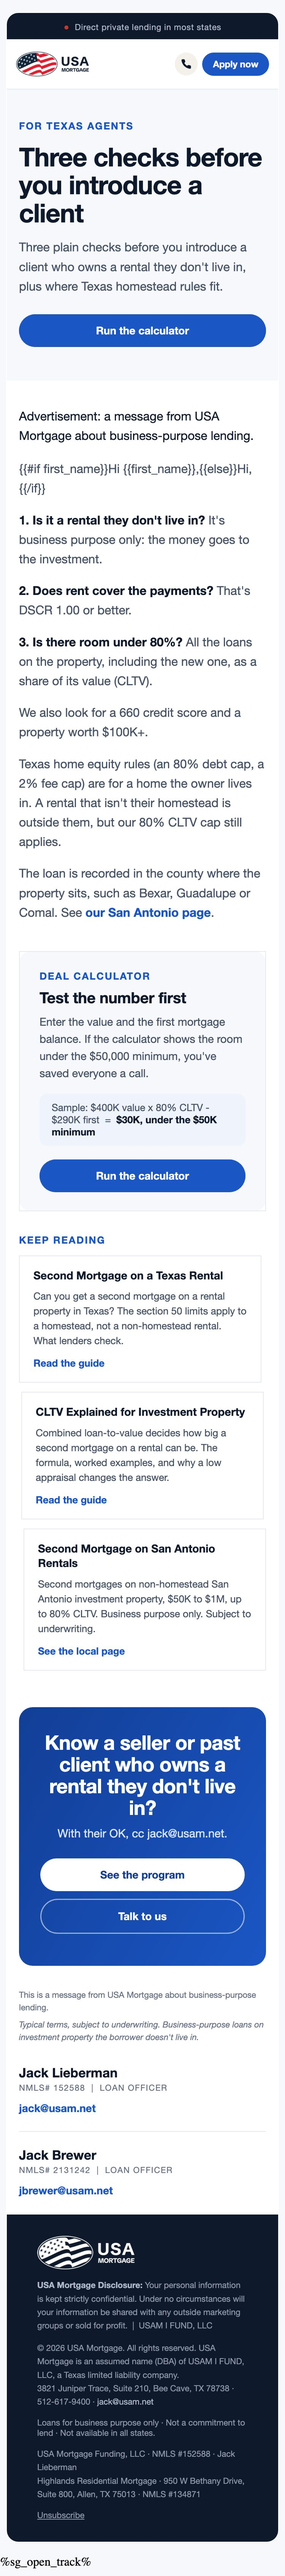
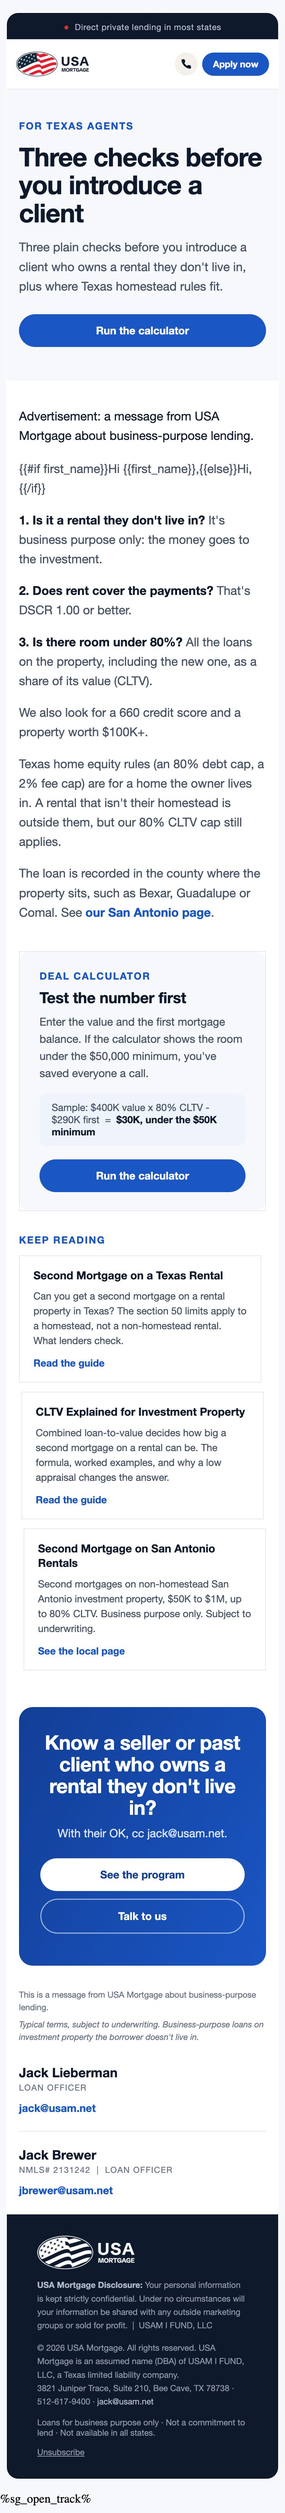
Revert Jack Lieberman NMLS and license lines in the Texas drip
Back to the footer USAM has been sending, pending Jack's answer on
which license line to use.

diff --git a/Texas Realtor Drip/s1-next-down-payment.html b/Texas Realtor Drip/s1-next-down-payment.html
@@ -259,7 +259,7 @@
               <tr>
                 <td class="usam-stack usam-sig-a" width="50%" valign="top" style="padding:0 20px 0 0;">
                   <div style="font-family:'Schibsted Grotesk','Helvetica Neue',Arial,sans-serif; font-weight:700; font-size:17px; color:#0E1A2B;">Jack Lieberman</div>
-                  <div style="font-family:'Hanken Grotesk','Helvetica Neue',Arial,sans-serif; font-size:11px; letter-spacing:0.08em; text-transform:uppercase; color:#667085; margin:3px 0 8px;">NMLS# 152588 &nbsp;|&nbsp; Loan Officer</div>
+                  <div style="font-family:'Hanken Grotesk','Helvetica Neue',Arial,sans-serif; font-size:11px; letter-spacing:0.08em; text-transform:uppercase; color:#667085; margin:3px 0 8px;">Loan Officer</div>
                   <div style="font-family:'Hanken Grotesk','Helvetica Neue',Arial,sans-serif; font-size:14px; color:#475467; line-height:1.7;">
                     <a class="usam-link" href="mailto:jack@usam.net" target="_blank" rel="noopener noreferrer" style="color:#1A56C4; font-weight:600;">jack@usam.net</a>
                   </div>
@@ -288,7 +288,6 @@
               &copy; 2026 USA Mortgage. All rights reserved. USA Mortgage is an assumed name (DBA) of USAM I FUND, LLC, a Texas limited liability company.<br>3821 Juniper Trace, Suite 210, Bee Cave, TX 78738 &middot; 512-617-9400 &middot; <a class="usam-link" href="mailto:jack@usam.net" target="_blank" rel="noopener noreferrer" style="color:#AEB9C9;">jack@usam.net</a>
             </p>
             <p style="margin:0 0 12px; font-family:'Hanken Grotesk','Helvetica Neue',Arial,sans-serif; font-size:11px; color:#8A97A8;">Loans for business purpose only &middot; Not a commitment to lend &middot; Not available in all states.</p>
-            <p style="margin:0 0 12px; font-family:'Hanken Grotesk','Helvetica Neue',Arial,sans-serif; font-size:11px; line-height:1.6; color:#8A97A8;">USA Mortgage Funding, LLC &middot; NMLS #152588 &middot; Jack Lieberman<br>Highlands Residential Mortgage &middot; 950 W Bethany Drive, Suite 800, Allen, TX 75013 &middot; NMLS #134871</p>
             <p style="margin:0; font-family:'Hanken Grotesk','Helvetica Neue',Arial,sans-serif; font-size:11px; color:#8A97A8;">
               <a href="{{{unsubscribe}}}" style="color:#8A97A8; text-decoration:underline;">Unsubscribe</a>
             </p>

diff --git a/Texas Realtor Drip/s2-before-the-offer.html b/Texas Realtor Drip/s2-before-the-offer.html
@@ -258,7 +258,7 @@
               <tr>
                 <td class="usam-stack usam-sig-a" width="50%" valign="top" style="padding:0 20px 0 0;">
                   <div style="font-family:'Schibsted Grotesk','Helvetica Neue',Arial,sans-serif; font-weight:700; font-size:17px; color:#0E1A2B;">Jack Lieberman</div>
-                  <div style="font-family:'Hanken Grotesk','Helvetica Neue',Arial,sans-serif; font-size:11px; letter-spacing:0.08em; text-transform:uppercase; color:#667085; margin:3px 0 8px;">NMLS# 152588 &nbsp;|&nbsp; Loan Officer</div>
+                  <div style="font-family:'Hanken Grotesk','Helvetica Neue',Arial,sans-serif; font-size:11px; letter-spacing:0.08em; text-transform:uppercase; color:#667085; margin:3px 0 8px;">Loan Officer</div>
                   <div style="font-family:'Hanken Grotesk','Helvetica Neue',Arial,sans-serif; font-size:14px; color:#475467; line-height:1.7;">
                     <a class="usam-link" href="mailto:jack@usam.net" target="_blank" rel="noopener noreferrer" style="color:#1A56C4; font-weight:600;">jack@usam.net</a>
                   </div>
@@ -287,7 +287,6 @@
               &copy; 2026 USA Mortgage. All rights reserved. USA Mortgage is an assumed name (DBA) of USAM I FUND, LLC, a Texas limited liability company.<br>3821 Juniper Trace, Suite 210, Bee Cave, TX 78738 &middot; 512-617-9400 &middot; <a class="usam-link" href="mailto:jack@usam.net" target="_blank" rel="noopener noreferrer" style="color:#AEB9C9;">jack@usam.net</a>
             </p>
             <p style="margin:0 0 12px; font-family:'Hanken Grotesk','Helvetica Neue',Arial,sans-serif; font-size:11px; color:#8A97A8;">Loans for business purpose only &middot; Not a commitment to lend &middot; Not available in all states.</p>
-            <p style="margin:0 0 12px; font-family:'Hanken Grotesk','Helvetica Neue',Arial,sans-serif; font-size:11px; line-height:1.6; color:#8A97A8;">USA Mortgage Funding, LLC &middot; NMLS #152588 &middot; Jack Lieberman<br>Highlands Residential Mortgage &middot; 950 W Bethany Drive, Suite 800, Allen, TX 75013 &middot; NMLS #134871</p>
             <p style="margin:0; font-family:'Hanken Grotesk','Helvetica Neue',Arial,sans-serif; font-size:11px; color:#8A97A8;">
               <a href="{{{unsubscribe}}}" style="color:#8A97A8; text-decoration:underline;">Unsubscribe</a>
             </p>

diff --git a/Texas Realtor Drip/s3-keep-the-first.html b/Texas Realtor Drip/s3-keep-the-first.html
@@ -280,7 +280,7 @@
               <tr>
                 <td class="usam-stack usam-sig-a" width="50%" valign="top" style="padding:0 20px 0 0;">
                   <div style="font-family:'Schibsted Grotesk','Helvetica Neue',Arial,sans-serif; font-weight:700; font-size:17px; color:#0E1A2B;">Jack Lieberman</div>
-                  <div style="font-family:'Hanken Grotesk','Helvetica Neue',Arial,sans-serif; font-size:11px; letter-spacing:0.08em; text-transform:uppercase; color:#667085; margin:3px 0 8px;">NMLS# 152588 &nbsp;|&nbsp; Loan Officer</div>
+                  <div style="font-family:'Hanken Grotesk','Helvetica Neue',Arial,sans-serif; font-size:11px; letter-spacing:0.08em; text-transform:uppercase; color:#667085; margin:3px 0 8px;">Loan Officer</div>
                   <div style="font-family:'Hanken Grotesk','Helvetica Neue',Arial,sans-serif; font-size:14px; color:#475467; line-height:1.7;">
                     <a class="usam-link" href="mailto:jack@usam.net" target="_blank" rel="noopener noreferrer" style="color:#1A56C4; font-weight:600;">jack@usam.net</a>
                   </div>
@@ -309,7 +309,6 @@
               &copy; 2026 USA Mortgage. All rights reserved. USA Mortgage is an assumed name (DBA) of USAM I FUND, LLC, a Texas limited liability company.<br>3821 Juniper Trace, Suite 210, Bee Cave, TX 78738 &middot; 512-617-9400 &middot; <a class="usam-link" href="mailto:jack@usam.net" target="_blank" rel="noopener noreferrer" style="color:#AEB9C9;">jack@usam.net</a>
             </p>
             <p style="margin:0 0 12px; font-family:'Hanken Grotesk','Helvetica Neue',Arial,sans-serif; font-size:11px; color:#8A97A8;">Loans for business purpose only &middot; Not a commitment to lend &middot; Not available in all states.</p>
-            <p style="margin:0 0 12px; font-family:'Hanken Grotesk','Helvetica Neue',Arial,sans-serif; font-size:11px; line-height:1.6; color:#8A97A8;">USA Mortgage Funding, LLC &middot; NMLS #152588 &middot; Jack Lieberman<br>Highlands Residential Mortgage &middot; 950 W Bethany Drive, Suite 800, Allen, TX 75013 &middot; NMLS #134871</p>
             <p style="margin:0; font-family:'Hanken Grotesk','Helvetica Neue',Arial,sans-serif; font-size:11px; color:#8A97A8;">
               <a href="{{{unsubscribe}}}" style="color:#8A97A8; text-decoration:underline;">Unsubscribe</a>
             </p>

diff --git a/Texas Realtor Drip/s4-what-happens-after-an-intro.html b/Texas Realtor Drip/s4-what-happens-after-an-intro.html
@@ -258,7 +258,7 @@
               <tr>
                 <td class="usam-stack usam-sig-a" width="50%" valign="top" style="padding:0 20px 0 0;">
                   <div style="font-family:'Schibsted Grotesk','Helvetica Neue',Arial,sans-serif; font-weight:700; font-size:17px; color:#0E1A2B;">Jack Lieberman</div>
-                  <div style="font-family:'Hanken Grotesk','Helvetica Neue',Arial,sans-serif; font-size:11px; letter-spacing:0.08em; text-transform:uppercase; color:#667085; margin:3px 0 8px;">NMLS# 152588 &nbsp;|&nbsp; Loan Officer</div>
+                  <div style="font-family:'Hanken Grotesk','Helvetica Neue',Arial,sans-serif; font-size:11px; letter-spacing:0.08em; text-transform:uppercase; color:#667085; margin:3px 0 8px;">Loan Officer</div>
                   <div style="font-family:'Hanken Grotesk','Helvetica Neue',Arial,sans-serif; font-size:14px; color:#475467; line-height:1.7;">
                     <a class="usam-link" href="mailto:jack@usam.net" target="_blank" rel="noopener noreferrer" style="color:#1A56C4; font-weight:600;">jack@usam.net</a>
                   </div>
@@ -287,7 +287,6 @@
               &copy; 2026 USA Mortgage. All rights reserved. USA Mortgage is an assumed name (DBA) of USAM I FUND, LLC, a Texas limited liability company.<br>3821 Juniper Trace, Suite 210, Bee Cave, TX 78738 &middot; 512-617-9400 &middot; <a class="usam-link" href="mailto:jack@usam.net" target="_blank" rel="noopener noreferrer" style="color:#AEB9C9;">jack@usam.net</a>
             </p>
             <p style="margin:0 0 12px; font-family:'Hanken Grotesk','Helvetica Neue',Arial,sans-serif; font-size:11px; color:#8A97A8;">Loans for business purpose only &middot; Not a commitment to lend &middot; Not available in all states.</p>
-            <p style="margin:0 0 12px; font-family:'Hanken Grotesk','Helvetica Neue',Arial,sans-serif; font-size:11px; line-height:1.6; color:#8A97A8;">USA Mortgage Funding, LLC &middot; NMLS #152588 &middot; Jack Lieberman<br>Highlands Residential Mortgage &middot; 950 W Bethany Drive, Suite 800, Allen, TX 75013 &middot; NMLS #134871</p>
             <p style="margin:0; font-family:'Hanken Grotesk','Helvetica Neue',Arial,sans-serif; font-size:11px; color:#8A97A8;">
               <a href="{{{unsubscribe}}}" style="color:#8A97A8; text-decoration:underline;">Unsubscribe</a>
             </p>

diff --git a/Texas Realtor Drip/s5-texas-checks.html b/Texas Realtor Drip/s5-texas-checks.html
@@ -261,7 +261,7 @@
               <tr>
                 <td class="usam-stack usam-sig-a" width="50%" valign="top" style="padding:0 20px 0 0;">
                   <div style="font-family:'Schibsted Grotesk','Helvetica Neue',Arial,sans-serif; font-weight:700; font-size:17px; color:#0E1A2B;">Jack Lieberman</div>
-                  <div style="font-family:'Hanken Grotesk','Helvetica Neue',Arial,sans-serif; font-size:11px; letter-spacing:0.08em; text-transform:uppercase; color:#667085; margin:3px 0 8px;">NMLS# 152588 &nbsp;|&nbsp; Loan Officer</div>
+                  <div style="font-family:'Hanken Grotesk','Helvetica Neue',Arial,sans-serif; font-size:11px; letter-spacing:0.08em; text-transform:uppercase; color:#667085; margin:3px 0 8px;">Loan Officer</div>
                   <div style="font-family:'Hanken Grotesk','Helvetica Neue',Arial,sans-serif; font-size:14px; color:#475467; line-height:1.7;">
                     <a class="usam-link" href="mailto:jack@usam.net" target="_blank" rel="noopener noreferrer" style="color:#1A56C4; font-weight:600;">jack@usam.net</a>
                   </div>
@@ -290,7 +290,6 @@
               &copy; 2026 USA Mortgage. All rights reserved. USA Mortgage is an assumed name (DBA) of USAM I FUND, LLC, a Texas limited liability company.<br>3821 Juniper Trace, Suite 210, Bee Cave, TX 78738 &middot; 512-617-9400 &middot; <a class="usam-link" href="mailto:jack@usam.net" target="_blank" rel="noopener noreferrer" style="color:#AEB9C9;">jack@usam.net</a>
             </p>
             <p style="margin:0 0 12px; font-family:'Hanken Grotesk','Helvetica Neue',Arial,sans-serif; font-size:11px; color:#8A97A8;">Loans for business purpose only &middot; Not a commitment to lend &middot; Not available in all states.</p>
-            <p style="margin:0 0 12px; font-family:'Hanken Grotesk','Helvetica Neue',Arial,sans-serif; font-size:11px; line-height:1.6; color:#8A97A8;">USA Mortgage Funding, LLC &middot; NMLS #152588 &middot; Jack Lieberman<br>Highlands Residential Mortgage &middot; 950 W Bethany Drive, Suite 800, Allen, TX 75013 &middot; NMLS #134871</p>
             <p style="margin:0; font-family:'Hanken Grotesk','Helvetica Neue',Arial,sans-serif; font-size:11px; color:#8A97A8;">
               <a href="{{{unsubscribe}}}" style="color:#8A97A8; text-decoration:underline;">Unsubscribe</a>
             </p>

diff --git a/Texas Realtor Drip/s5b-texas-checks-austin.html b/Texas Realtor Drip/s5b-texas-checks-austin.html
@@ -262,7 +262,7 @@
               <tr>
                 <td class="usam-stack usam-sig-a" width="50%" valign="top" style="padding:0 20px 0 0;">
                   <div style="font-family:'Schibsted Grotesk','Helvetica Neue',Arial,sans-serif; font-weight:700; font-size:17px; color:#0E1A2B;">Jack Lieberman</div>
-                  <div style="font-family:'Hanken Grotesk','Helvetica Neue',Arial,sans-serif; font-size:11px; letter-spacing:0.08em; text-transform:uppercase; color:#667085; margin:3px 0 8px;">NMLS# 152588 &nbsp;|&nbsp; Loan Officer</div>
+                  <div style="font-family:'Hanken Grotesk','Helvetica Neue',Arial,sans-serif; font-size:11px; letter-spacing:0.08em; text-transform:uppercase; color:#667085; margin:3px 0 8px;">Loan Officer</div>
                   <div style="font-family:'Hanken Grotesk','Helvetica Neue',Arial,sans-serif; font-size:14px; color:#475467; line-height:1.7;">
                     <a class="usam-link" href="mailto:jack@usam.net" target="_blank" rel="noopener noreferrer" style="color:#1A56C4; font-weight:600;">jack@usam.net</a>
                   </div>
@@ -291,7 +291,6 @@
               &copy; 2026 USA Mortgage. All rights reserved. USA Mortgage is an assumed name (DBA) of USAM I FUND, LLC, a Texas limited liability company.<br>3821 Juniper Trace, Suite 210, Bee Cave, TX 78738 &middot; 512-617-9400 &middot; <a class="usam-link" href="mailto:jack@usam.net" target="_blank" rel="noopener noreferrer" style="color:#AEB9C9;">jack@usam.net</a>
             </p>
             <p style="margin:0 0 12px; font-family:'Hanken Grotesk','Helvetica Neue',Arial,sans-serif; font-size:11px; color:#8A97A8;">Loans for business purpose only &middot; Not a commitment to lend &middot; Not available in all states.</p>
-            <p style="margin:0 0 12px; font-family:'Hanken Grotesk','Helvetica Neue',Arial,sans-serif; font-size:11px; line-height:1.6; color:#8A97A8;">USA Mortgage Funding, LLC &middot; NMLS #152588 &middot; Jack Lieberman<br>Highlands Residential Mortgage &middot; 950 W Bethany Drive, Suite 800, Allen, TX 75013 &middot; NMLS #134871</p>
             <p style="margin:0; font-family:'Hanken Grotesk','Helvetica Neue',Arial,sans-serif; font-size:11px; color:#8A97A8;">
               <a href="{{{unsubscribe}}}" style="color:#8A97A8; text-decoration:underline;">Unsubscribe</a>
             </p>

diff --git a/Texas Realtor Drip/s5c-texas-checks-houston.html b/Texas Realtor Drip/s5c-texas-checks-houston.html
@@ -262,7 +262,7 @@
               <tr>
                 <td class="usam-stack usam-sig-a" width="50%" valign="top" style="padding:0 20px 0 0;">
                   <div style="font-family:'Schibsted Grotesk','Helvetica Neue',Arial,sans-serif; font-weight:700; font-size:17px; color:#0E1A2B;">Jack Lieberman</div>
-                  <div style="font-family:'Hanken Grotesk','Helvetica Neue',Arial,sans-serif; font-size:11px; letter-spacing:0.08em; text-transform:uppercase; color:#667085; margin:3px 0 8px;">NMLS# 152588 &nbsp;|&nbsp; Loan Officer</div>
+                  <div style="font-family:'Hanken Grotesk','Helvetica Neue',Arial,sans-serif; font-size:11px; letter-spacing:0.08em; text-transform:uppercase; color:#667085; margin:3px 0 8px;">Loan Officer</div>
                   <div style="font-family:'Hanken Grotesk','Helvetica Neue',Arial,sans-serif; font-size:14px; color:#475467; line-height:1.7;">
                     <a class="usam-link" href="mailto:jack@usam.net" target="_blank" rel="noopener noreferrer" style="color:#1A56C4; font-weight:600;">jack@usam.net</a>
                   </div>
@@ -291,7 +291,6 @@
               &copy; 2026 USA Mortgage. All rights reserved. USA Mortgage is an assumed name (DBA) of USAM I FUND, LLC, a Texas limited liability company.<br>3821 Juniper Trace, Suite 210, Bee Cave, TX 78738 &middot; 512-617-9400 &middot; <a class="usam-link" href="mailto:jack@usam.net" target="_blank" rel="noopener noreferrer" style="color:#AEB9C9;">jack@usam.net</a>
             </p>
             <p style="margin:0 0 12px; font-family:'Hanken Grotesk','Helvetica Neue',Arial,sans-serif; font-size:11px; color:#8A97A8;">Loans for business purpose only &middot; Not a commitment to lend &middot; Not available in all states.</p>
-            <p style="margin:0 0 12px; font-family:'Hanken Grotesk','Helvetica Neue',Arial,sans-serif; font-size:11px; line-height:1.6; color:#8A97A8;">USA Mortgage Funding, LLC &middot; NMLS #152588 &middot; Jack Lieberman<br>Highlands Residential Mortgage &middot; 950 W Bethany Drive, Suite 800, Allen, TX 75013 &middot; NMLS #134871</p>
             <p style="margin:0; font-family:'Hanken Grotesk','Helvetica Neue',Arial,sans-serif; font-size:11px; color:#8A97A8;">
               <a href="{{{unsubscribe}}}" style="color:#8A97A8; text-decoration:underline;">Unsubscribe</a>
             </p>

diff --git a/Texas Realtor Drip/s5d-texas-checks-san-antonio.html b/Texas Realtor Drip/s5d-texas-checks-san-antonio.html
@@ -262,7 +262,7 @@
               <tr>
                 <td class="usam-stack usam-sig-a" width="50%" valign="top" style="padding:0 20px 0 0;">
                   <div style="font-family:'Schibsted Grotesk','Helvetica Neue',Arial,sans-serif; font-weight:700; font-size:17px; color:#0E1A2B;">Jack Lieberman</div>
-                  <div style="font-family:'Hanken Grotesk','Helvetica Neue',Arial,sans-serif; font-size:11px; letter-spacing:0.08em; text-transform:uppercase; color:#667085; margin:3px 0 8px;">NMLS# 152588 &nbsp;|&nbsp; Loan Officer</div>
+                  <div style="font-family:'Hanken Grotesk','Helvetica Neue',Arial,sans-serif; font-size:11px; letter-spacing:0.08em; text-transform:uppercase; color:#667085; margin:3px 0 8px;">Loan Officer</div>
                   <div style="font-family:'Hanken Grotesk','Helvetica Neue',Arial,sans-serif; font-size:14px; color:#475467; line-height:1.7;">
                     <a class="usam-link" href="mailto:jack@usam.net" target="_blank" rel="noopener noreferrer" style="color:#1A56C4; font-weight:600;">jack@usam.net</a>
                   </div>
@@ -291,7 +291,6 @@
               &copy; 2026 USA Mortgage. All rights reserved. USA Mortgage is an assumed name (DBA) of USAM I FUND, LLC, a Texas limited liability company.<br>3821 Juniper Trace, Suite 210, Bee Cave, TX 78738 &middot; 512-617-9400 &middot; <a class="usam-link" href="mailto:jack@usam.net" target="_blank" rel="noopener noreferrer" style="color:#AEB9C9;">jack@usam.net</a>
             </p>
             <p style="margin:0 0 12px; font-family:'Hanken Grotesk','Helvetica Neue',Arial,sans-serif; font-size:11px; color:#8A97A8;">Loans for business purpose only &middot; Not a commitment to lend &middot; Not available in all states.</p>
-            <p style="margin:0 0 12px; font-family:'Hanken Grotesk','Helvetica Neue',Arial,sans-serif; font-size:11px; line-height:1.6; color:#8A97A8;">USA Mortgage Funding, LLC &middot; NMLS #152588 &middot; Jack Lieberman<br>Highlands Residential Mortgage &middot; 950 W Bethany Drive, Suite 800, Allen, TX 75013 &middot; NMLS #134871</p>
             <p style="margin:0; font-family:'Hanken Grotesk','Helvetica Neue',Arial,sans-serif; font-size:11px; color:#8A97A8;">
               <a href="{{{unsubscribe}}}" style="color:#8A97A8; text-decoration:underline;">Unsubscribe</a>
             </p>

diff --git a/Texas Realtor Drip/s6-one-client-in-mind.html b/Texas Realtor Drip/s6-one-client-in-mind.html
@@ -257,7 +257,7 @@
               <tr>
                 <td class="usam-stack usam-sig-a" width="50%" valign="top" style="padding:0 20px 0 0;">
                   <div style="font-family:'Schibsted Grotesk','Helvetica Neue',Arial,sans-serif; font-weight:700; font-size:17px; color:#0E1A2B;">Jack Lieberman</div>
-                  <div style="font-family:'Hanken Grotesk','Helvetica Neue',Arial,sans-serif; font-size:11px; letter-spacing:0.08em; text-transform:uppercase; color:#667085; margin:3px 0 8px;">NMLS# 152588 &nbsp;|&nbsp; Loan Officer</div>
+                  <div style="font-family:'Hanken Grotesk','Helvetica Neue',Arial,sans-serif; font-size:11px; letter-spacing:0.08em; text-transform:uppercase; color:#667085; margin:3px 0 8px;">Loan Officer</div>
                   <div style="font-family:'Hanken Grotesk','Helvetica Neue',Arial,sans-serif; font-size:14px; color:#475467; line-height:1.7;">
                     <a class="usam-link" href="mailto:jack@usam.net" target="_blank" rel="noopener noreferrer" style="color:#1A56C4; font-weight:600;">jack@usam.net</a>
                   </div>
@@ -286,7 +286,6 @@
               &copy; 2026 USA Mortgage. All rights reserved. USA Mortgage is an assumed name (DBA) of USAM I FUND, LLC, a Texas limited liability company.<br>3821 Juniper Trace, Suite 210, Bee Cave, TX 78738 &middot; 512-617-9400 &middot; <a class="usam-link" href="mailto:jack@usam.net" target="_blank" rel="noopener noreferrer" style="color:#AEB9C9;">jack@usam.net</a>
             </p>
             <p style="margin:0 0 12px; font-family:'Hanken Grotesk','Helvetica Neue',Arial,sans-serif; font-size:11px; color:#8A97A8;">Loans for business purpose only &middot; Not a commitment to lend &middot; Not available in all states.</p>
-            <p style="margin:0 0 12px; font-family:'Hanken Grotesk','Helvetica Neue',Arial,sans-serif; font-size:11px; line-height:1.6; color:#8A97A8;">USA Mortgage Funding, LLC &middot; NMLS #152588 &middot; Jack Lieberman<br>Highlands Residential Mortgage &middot; 950 W Bethany Drive, Suite 800, Allen, TX 75013 &middot; NMLS #134871</p>
             <p style="margin:0; font-family:'Hanken Grotesk','Helvetica Neue',Arial,sans-serif; font-size:11px; color:#8A97A8;">
               <a href="{{{unsubscribe}}}" style="color:#8A97A8; text-decoration:underline;">Unsubscribe</a>
             </p>

diff --git a/Texas Realtor Drip/flow.html b/Texas Realtor Drip/flow.html
@@ -661,10 +661,8 @@
         <h3>Open before anything sends</h3>
         <ul>
           <li>
-            Who signs: since 2026-10-15 the signature reads NMLS# 152588 for Jack
-            Lieberman and the footer carries the usam.net license lines (USA
-            Mortgage Funding, LLC NMLS #152588; Highlands Residential Mortgage
-            NMLS #134871). Still to confirm with Jack that #152588 is his.
+            Who signs: Jack Lieberman has no NMLS number in the signature. All
+            four panelists raised it.
           </li>
           <li>
             Listing-only agents: resolved 2026-10-15, full series for everyone
